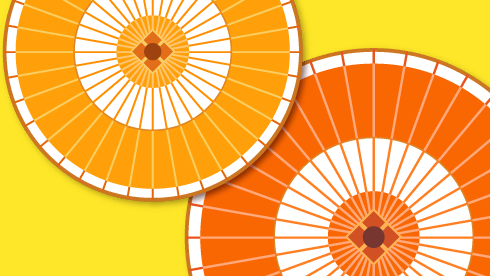
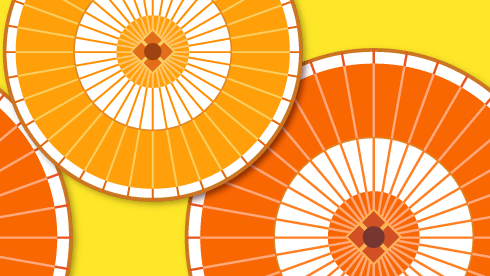
Mtaikoのフラッシュを本家風に(仮)

Changed region(s): [[0.0, 0.3188, 0.1837, 1.0]]

diff --git a/OpenTaiko/src/Stages/07.Game/Taiko/CAct演奏DrumsMtaiko.cs b/OpenTaiko/src/Stages/07.Game/Taiko/CAct演奏DrumsMtaiko.cs
@@ -72,16 +72,16 @@ namespace TJAPlayer3
 			{
 				this.nフラッシュ制御タイマ = num;
 			}
-			while( ( num - this.nフラッシュ制御タイマ ) >= 20 )
+			while( ( num - this.nフラッシュ制御タイマ ) >= 15 )
 			{
 				for( int j = 0; j < 25; j++ )
 				{
 					if( this.stパッド状態[ j ].n明るさ > 0 )
 					{
 						this.stパッド状態[ j ].n明るさ--;
-					}
+                    }
 				}
-				this.nフラッシュ制御タイマ += 20;
+				this.nフラッシュ制御タイマ += 15;
 		    }
 
 
@@ -117,19 +117,12 @@ namespace TJAPlayer3
                         {
                             if (TJAPlayer3.stageSongSelect.nChoosenSongDifficulty[0] == (int)Difficulty.Dan)
                             {
-                                tex = TJAPlayer3.Tx.Taiko_Background[2];
-                            }
-                            else if (TJAPlayer3.ConfigIni.bTokkunMode)
-                            {
-                                if (TJAPlayer3.P1IsBlue())
-                                    tex = TJAPlayer3.Tx.Taiko_Background[6];
-                                else
-                                    tex = TJAPlayer3.Tx.Taiko_Background[5];
+                                tex = TJAPlayer3.Tx.Taiko_Background[5];
                             }
                             else
                             {
                                 if (TJAPlayer3.P1IsBlue())
-                                    tex = TJAPlayer3.Tx.Taiko_Background[4];
+                                    tex = TJAPlayer3.Tx.Taiko_Background[1];
                                 else
                                     tex = TJAPlayer3.Tx.Taiko_Background[0];
                             }
@@ -139,31 +132,40 @@ namespace TJAPlayer3
                         {
                             if (TJAPlayer3.ConfigIni.bAIBattleMode)
                             {
-                                tex = TJAPlayer3.Tx.Taiko_Background[9];
+                                tex = TJAPlayer3.Tx.Taiko_Background[7];
                             }
                             else
                             {
-                                if (TJAPlayer3.ConfigIni.nPlayerCount == 2)
-                                    tex = TJAPlayer3.Tx.Taiko_Background[1];
-                                else
-                                    tex = TJAPlayer3.Tx.Taiko_Background[4];
-                            }
+                                tex = TJAPlayer3.Tx.Taiko_Background[1];
+                            }  
                         }
                         break;
                     case 2:
-                        tex = TJAPlayer3.Tx.Taiko_Background[7];
+                        tex = TJAPlayer3.Tx.Taiko_Background[2];
                         break;
                     case 3:
-                        tex = TJAPlayer3.Tx.Taiko_Background[8];
+                        tex = TJAPlayer3.Tx.Taiko_Background[3];
                         break;
                     case 4:
-                        tex = TJAPlayer3.Tx.Taiko_Background[11];
+                        tex = TJAPlayer3.Tx.Taiko_Background[4];
                         break;
                 }
 
                 tex?.t2D描画(bg_x, bg_y);
-                if (!TJAPlayer3.ConfigIni.bTokkunMode)
-                    TJAPlayer3.Tx.Taiko_ScoreBack.t2D中心基準描画(152, 314);
+
+
+                // ScoreBackの描画
+                switch (i)
+                {
+                    case 0:
+                        if (!TJAPlayer3.ConfigIni.bTokkunMode)
+                            TJAPlayer3.Tx.Taiko_ScoreBack.t2D描画(0, 288);
+                        break;
+                    case 1:
+                        if (!TJAPlayer3.ConfigIni.bTokkunMode)
+                            TJAPlayer3.Tx.Taiko_ScoreBack.t2D上下反転描画(0, 740);
+                        break;
+                }
             }
             /*
             if (TJAPlayer3.stage選曲.n確定された曲の難易度[0] == (int)Difficulty.Dan)  // Dan-i Dojo
@@ -220,7 +222,7 @@ namespace TJAPlayer3
                 }
                 else
                 {
-                    return brightness * 73;
+                    return brightness * 107;
                 }
             }
 
